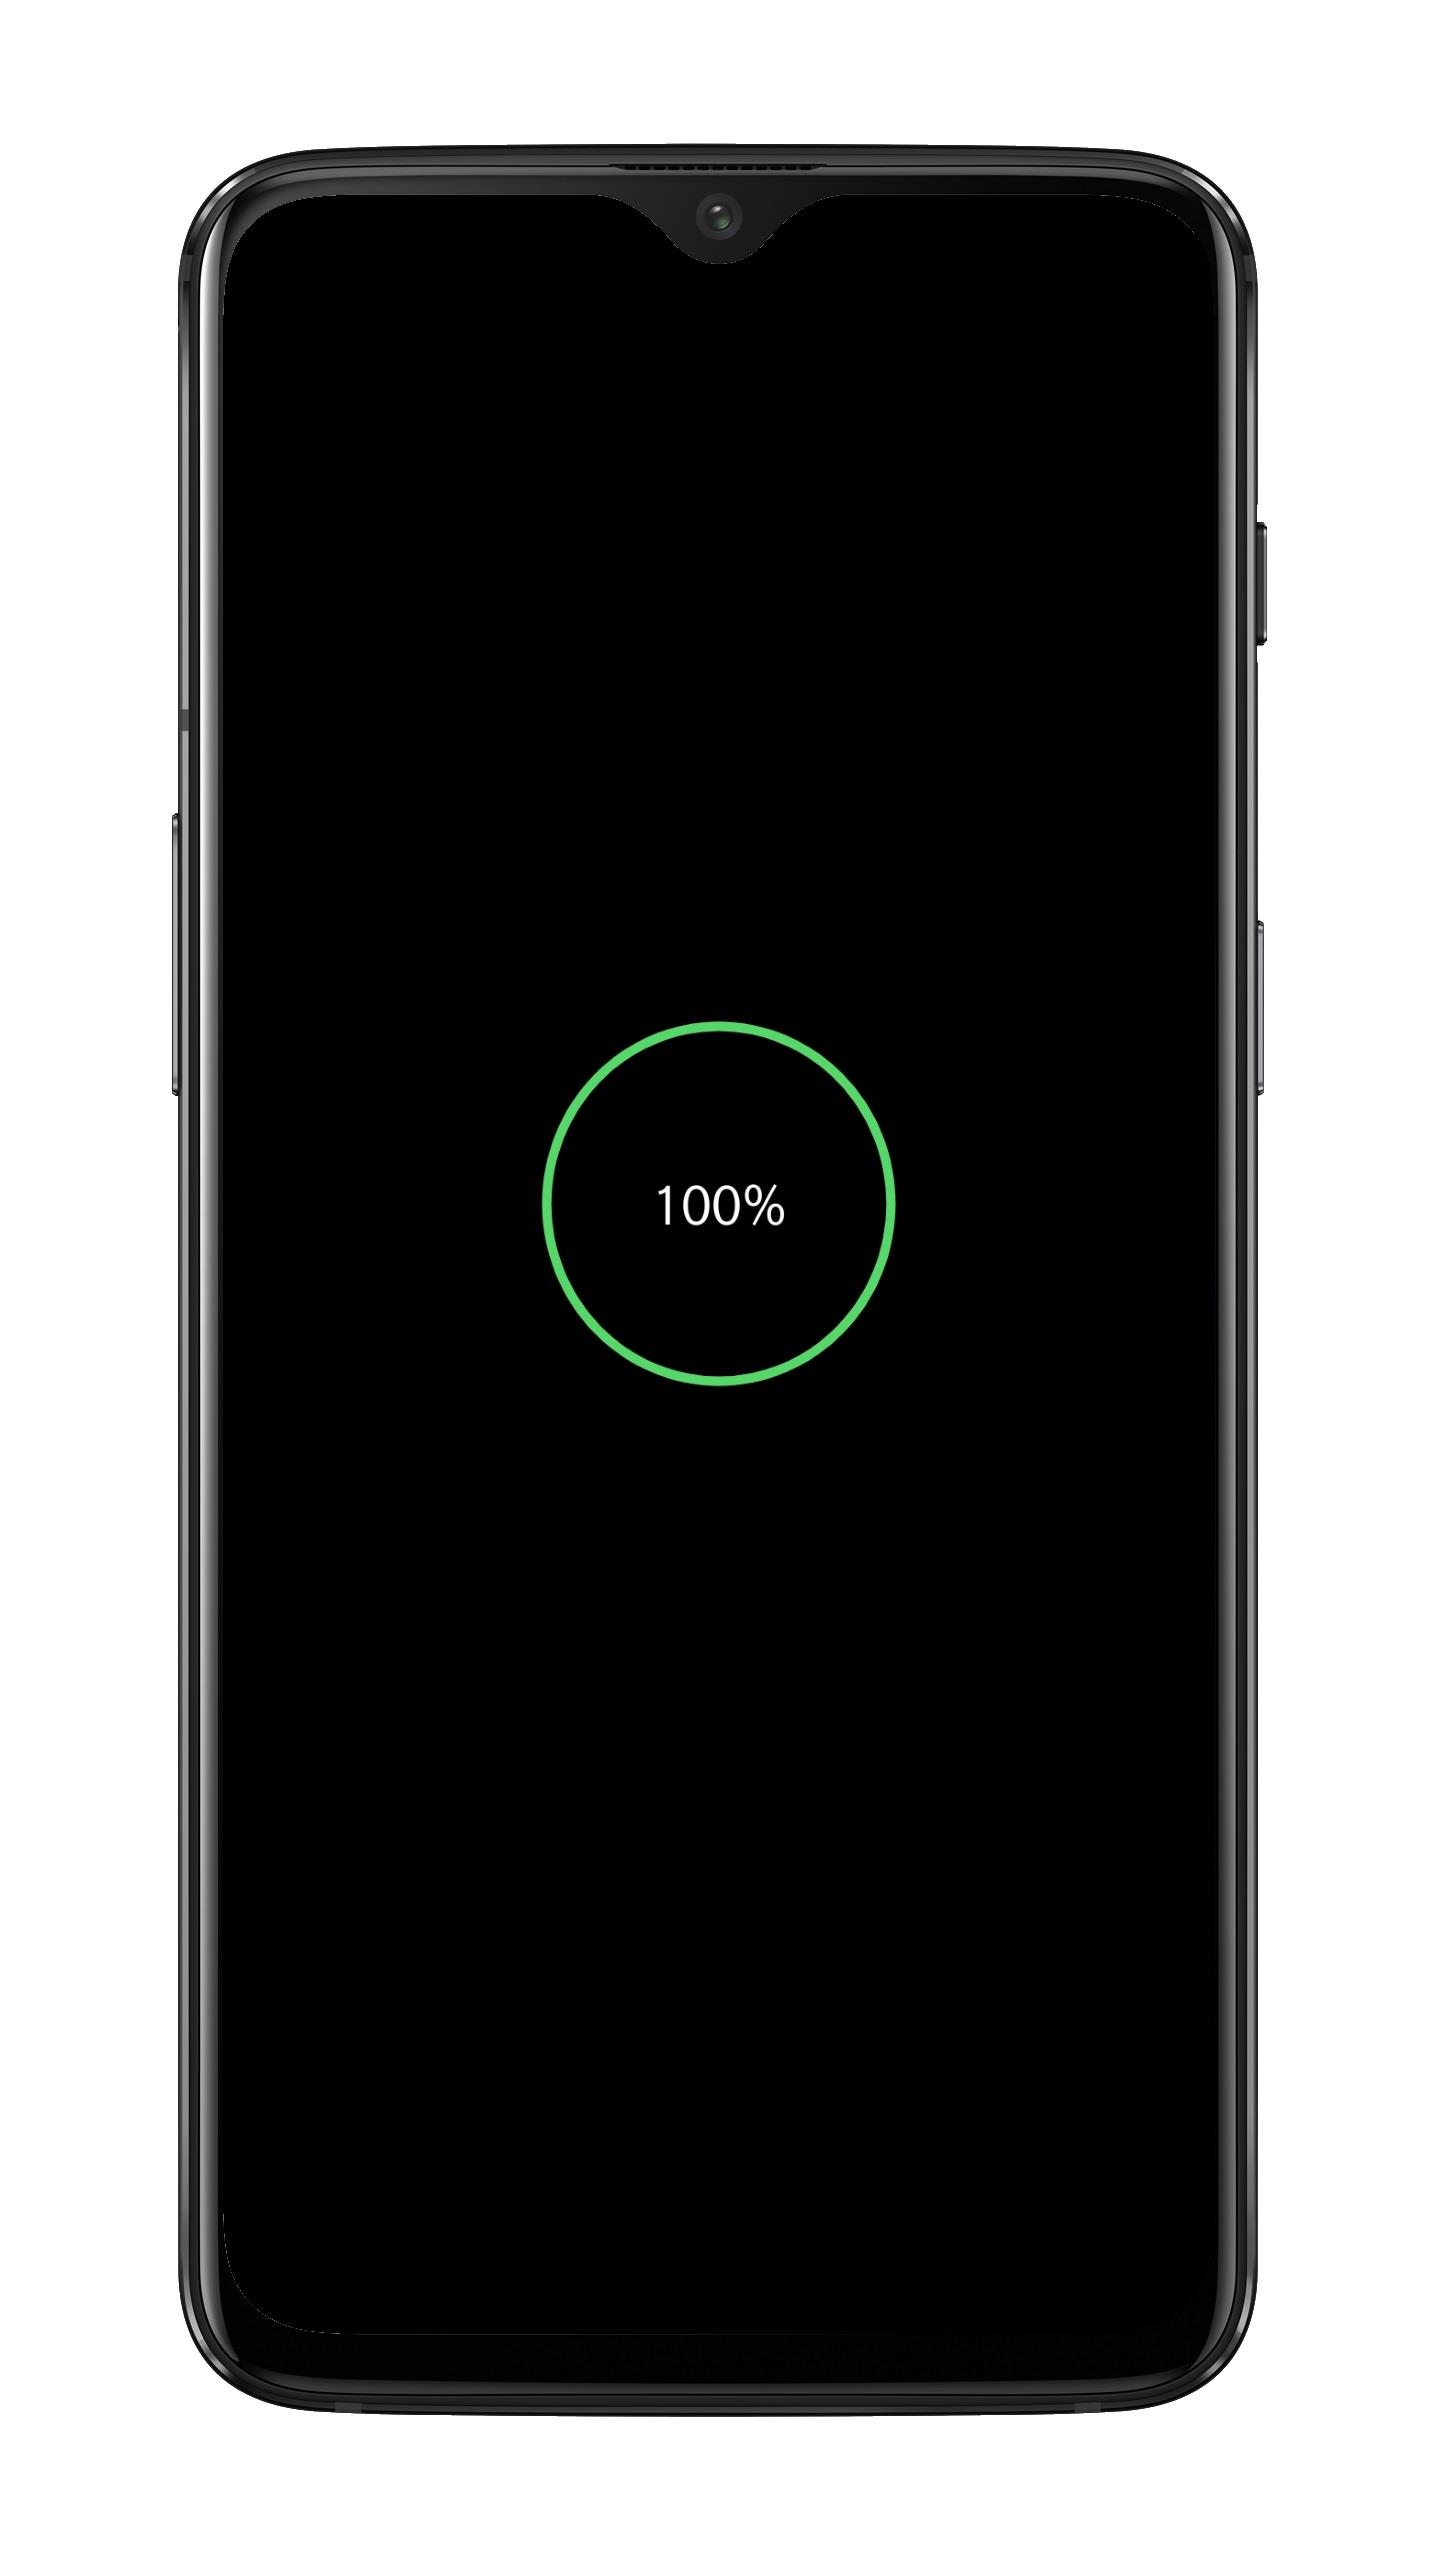
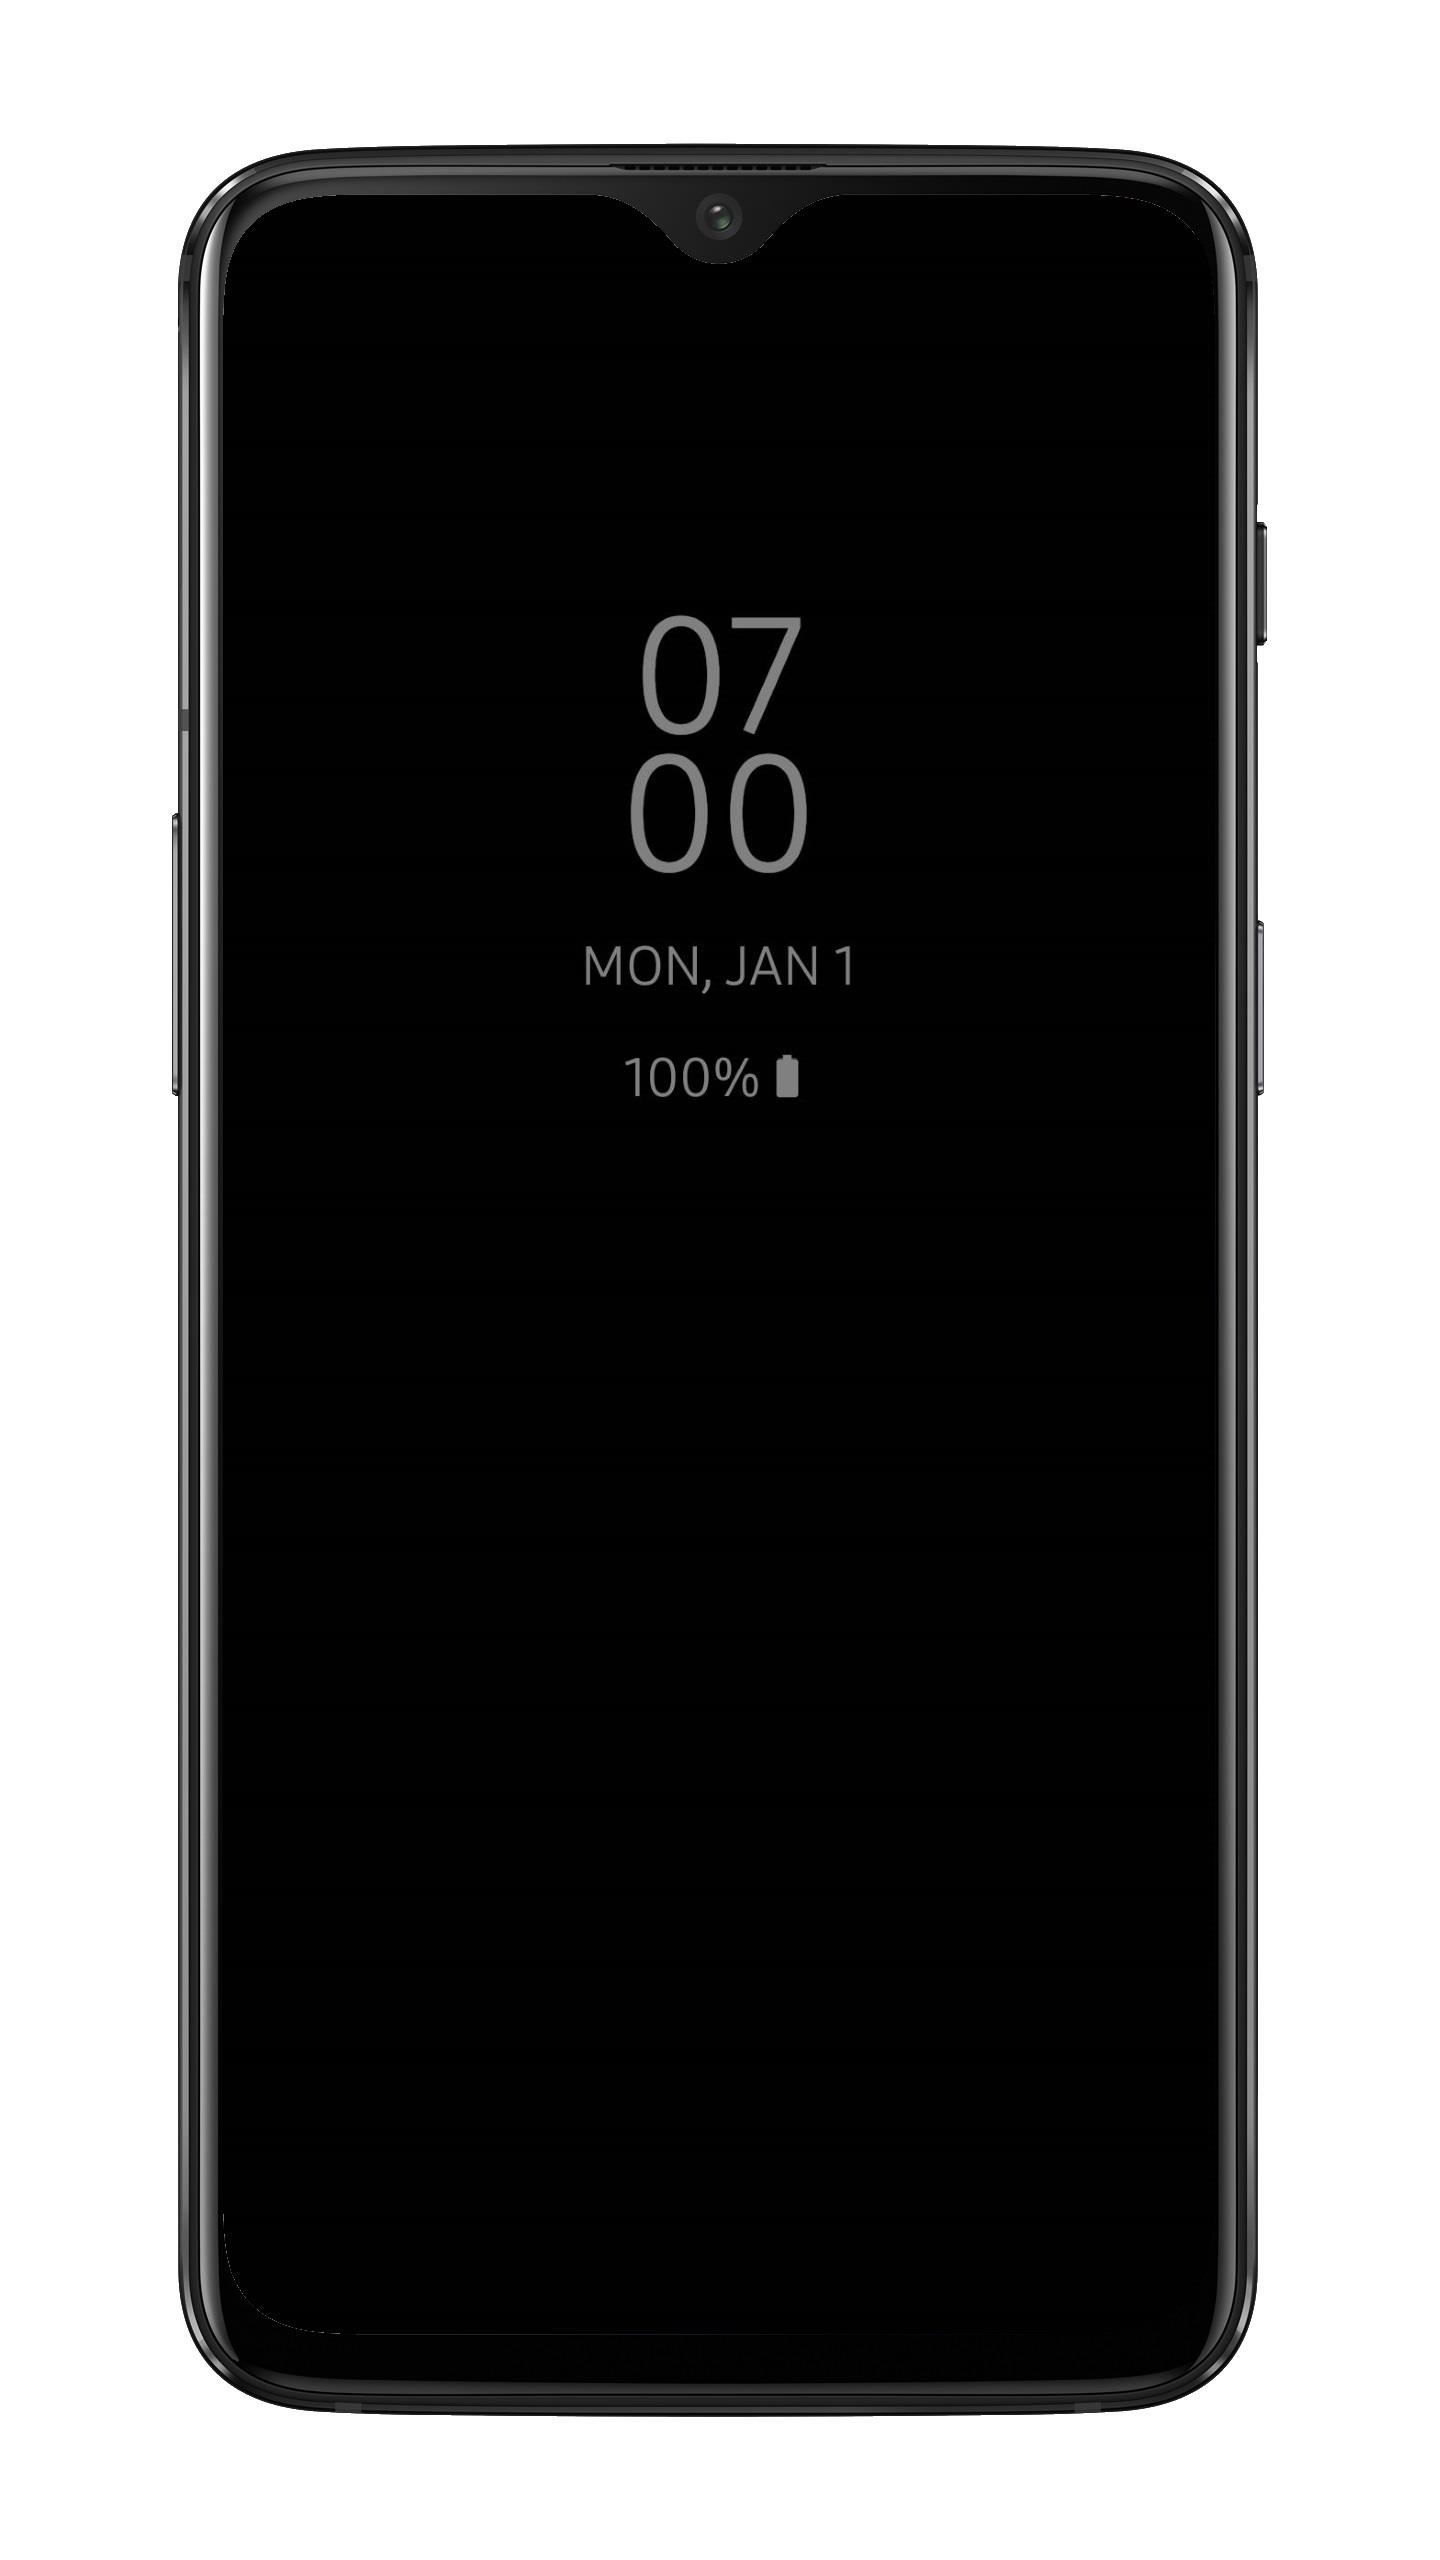
Update AlwaysOn screenshots

diff --git a/Android/AlwaysOn.md b/Android/AlwaysOn.md
@@ -22,4 +22,6 @@ previews:
   - /images/Android/AlwaysOn4.jpg
   - /images/Android/AlwaysOn5.jpg
   - /images/Android/AlwaysOn6.jpg
+  - /images/Android/AlwaysOn7.jpg
+  - /images/Android/AlwaysOn8.jpg
 ---
